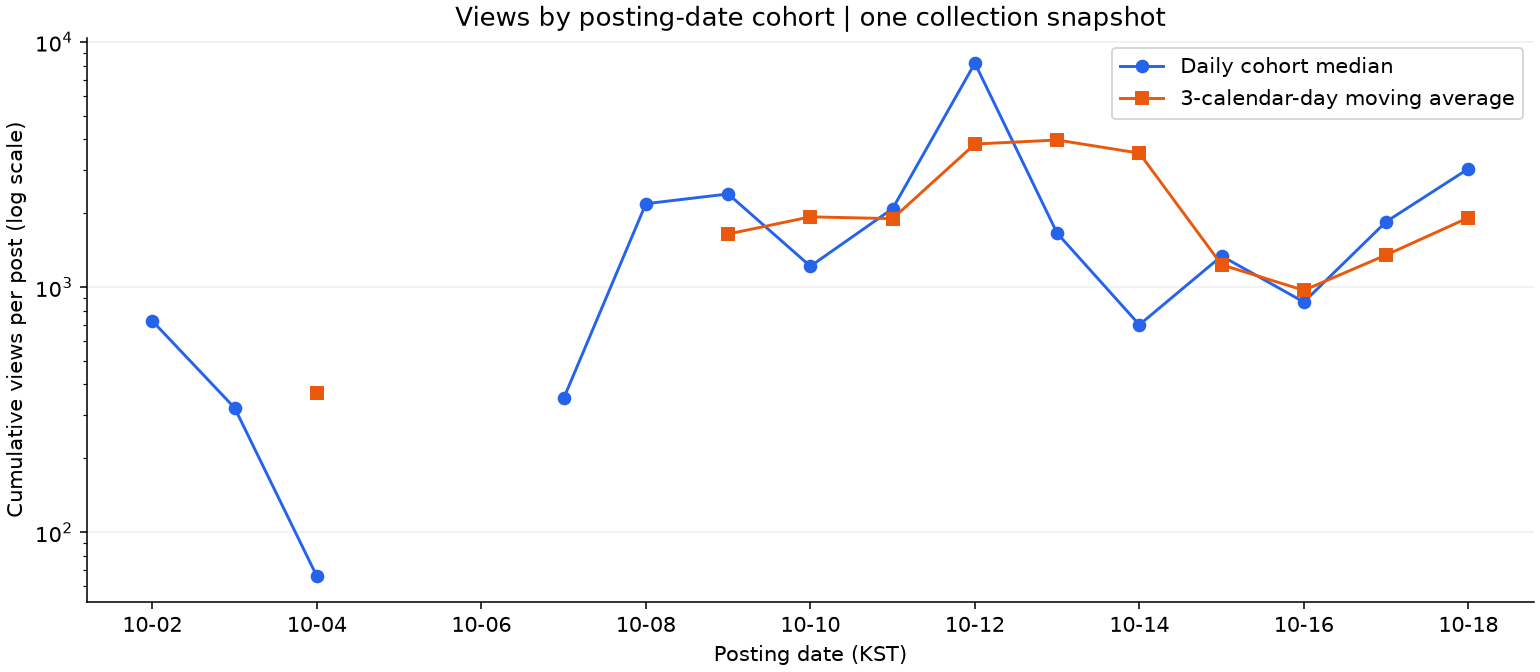
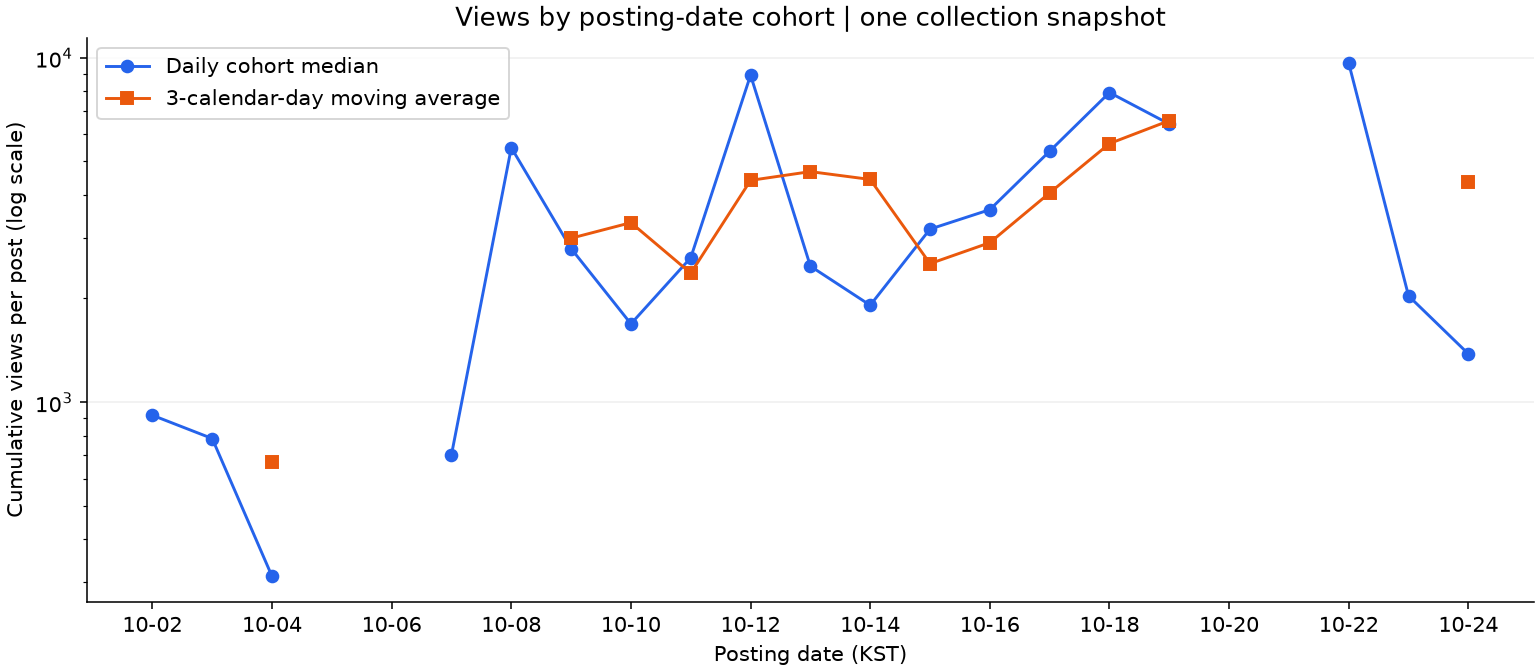
Update Threads analysis to 103 valid posts on 2026-10-24

diff --git a/collect_threads.py b/collect_threads.py
@@ -1,0 +1,108 @@
+"""One-off export of the authenticated user's Threads posts and insights.
+
+Set THREADS_ACCESS_TOKEN in the environment; credentials never enter the CSV.
+This script reads Threads only and does not enable any recurring collection.
+"""
+import argparse
+import csv
+from datetime import datetime, timezone, timedelta
+import json
+import os
+from pathlib import Path
+import time
+from urllib.error import HTTPError
+from urllib.parse import urlencode
+from urllib.request import Request, urlopen
+
+METRICS = ('views', 'likes', 'replies', 'reposts', 'quotes')
+KST = timezone(timedelta(hours=9))
+
+
+class APIError(RuntimeError):
+    def __init__(self, status, code=None):
+        self.status, self.code = status, code
+        super().__init__(f'Threads API HTTP {status}, error code {code}')
+
+
+def api_get(path, params, token):
+    request = Request('https://graph.threads.net/v1.0/' + path + '?' + urlencode(params),
+                      headers={'Authorization': 'Bearer ' + token})
+    try:
+        with urlopen(request, timeout=25) as response:
+            payload = json.load(response)
+    except HTTPError as exc:
+        try:
+            code = json.load(exc).get('error', {}).get('code')
+        except (ValueError, AttributeError):
+            code = None
+        raise APIError(exc.code, code) from None
+    if not isinstance(payload.get('data'), list):
+        raise RuntimeError('Invalid API data response')
+    return payload
+
+
+def main():
+    parser = argparse.ArgumentParser()
+    parser.add_argument('--output', type=Path, default=Path(__file__).resolve().parent / 'data/threads_insights.csv')
+    args = parser.parse_args()
+    token = os.getenv('THREADS_ACCESS_TOKEN', '').strip()
+    if not token:
+        raise RuntimeError('Set THREADS_ACCESS_TOKEN; do not put it in the source code.')
+    posts, seen, after = {}, set(), None
+    for _ in range(100):
+        params = {'fields': 'id,timestamp,text,media_type', 'limit': 100}
+        if after:
+            params['after'] = after
+        page = api_get('me/threads', params, token)
+        for post in page['data']:
+            post_id = post.get('id', '')
+            if not post_id.isascii() or not post_id.isdigit():
+                raise RuntimeError('Invalid post identifier')
+            posts[post_id] = post
+        paging = page.get('paging', {})
+        if not paging.get('next'):
+            break
+        after = paging.get('cursors', {}).get('after')
+        if not after or after in seen:
+            raise RuntimeError('Invalid pagination; output not replaced')
+        seen.add(after)
+    else:
+        raise RuntimeError('Pagination safety limit reached; output not replaced')
+    if not posts:
+        raise RuntimeError('No posts returned; output not replaced')
+    print(json.dumps({'phase': 'posts', 'unique_posts': len(posts)}), flush=True)
+    rows = []
+    for i, (post_id, post) in enumerate(posts.items(), 1):
+        values = {metric: None for metric in METRICS}
+        status = 'empty'
+        try:
+            payload = api_get(post_id + '/insights', {'metric': ','.join(METRICS)}, token)
+            for metric in payload['data']:
+                name, entries = metric.get('name'), metric.get('values', [])
+                value = entries[0].get('value') if entries else None
+                if name in values and type(value) is int and value >= 0:
+                    values[name] = value
+            status = 'success' if all(v is not None for v in values.values()) else 'empty'
+        except APIError as exc:
+            if exc.status in (401, 403, 429) or exc.code in (4, 32, 190, 613):
+                raise
+            status = 'error'
+        rows.append({'post_id': post_id, 'timestamp': post.get('timestamp'), 'text': post.get('text'),
+                     'media_type': post.get('media_type'), **values, 'status': status,
+                     'collected_at': datetime.now(KST).isoformat()})
+        if i % 20 == 0 or i == len(posts):
+            print(json.dumps({'phase': 'insights', 'processed': i, 'total': len(posts),
+                              'success': sum(r['status'] == 'success' for r in rows)}), flush=True)
+        time.sleep(.15)
+    args.output.parent.mkdir(parents=True, exist_ok=True)
+    temporary = args.output.with_suffix('.csv.tmp')
+    with temporary.open('w', encoding='utf-8-sig', newline='') as handle:
+        writer = csv.DictWriter(handle, fieldnames=list(rows[0]))
+        writer.writeheader()
+        writer.writerows(rows)
+    temporary.replace(args.output)
+    print(json.dumps({'saved_rows': len(rows), 'success': sum(r['status'] == 'success' for r in rows)}))
+
+
+if __name__ == '__main__':
+    main()

diff --git a/README.md b/README.md
@@ -1,6 +1,6 @@
 # Threads Insight M1-1
 
-현재 유효 게시물 79개로 수행한 1차 분석이다. 필수 유효 표본 100개는 추후 수집으로 충족할 예정이며 현재 버전을 이 GitHub 저장소에 정리했다. 결과는 `REPORT.md`를 참고한다.
+2026년 10월 24일 Threads API로 다시 수집한 게시물 105개 중 유효 인사이트 103개를 분석했다. **필수 유효 표본 100개 요건을 충족했다.** 기존 79개에서 신규 유효 게시물 24개를 추가했다. 결과는 [REPORT.md](REPORT.md)를 참고한다.
 
 ## 실행
 
@@ -18,26 +18,51 @@ python analysis.py
 python analysis.py --input path/to/threads_insights.csv
 ```
 
+이전 스냅샷과 비교하려면 선택적으로 다음 명령을 사용한다. 이전·현재 원본 CSV는 로컬에서 별도로 준비한다.
+
+```sh
+python analysis.py --input data/threads_insights.csv --baseline path/to/previous_snapshot.csv
+```
+
+이번 실행은 이전 2026-10-18 스냅샷과 비교했다. 결과는 `results/snapshot_comparison.json` 및 리포트의 이전 스냅샷 비교 절에 포함했다. `--baseline`을 생략하면 현재 스냅샷 분석만 수행한다.
+
 실행하면 `images/`의 PNG 4개, `results/`의 분석 CSV·품질 JSON, `REPORT.md`를 갱신한다. 원본은 덮어쓰지 않는다. 날짜 누락은 0으로 채우지 않으며 결측 지표를 가진 게시물은 성과 분석에서 제외한다. 고유 ID가 중복되면 임의로 삭제하지 않고 실행을 중단한다.
 
 ## 데이터 출처와 수집 방법 기록
 
 - 입력 출처: 분석자 본인의 Threads 계정.
 - 수집 방법: Threads API로 본인 계정의 게시물과 인사이트를 수집해 CSV로 저장.
-- 수집 대상 범위: 계정 생성 시점부터 2026년 10월 n일까지. n은 다음 데이터 갱신 시 확정한다. 이는 사용자가 설명한 수집 대상 범위이며, 계정 생성일과 전체 수집 완전성을 CSV만으로 확정한 것은 아니다.
-- 현재 게시 범위: 2026-10-02~2026-10-18, KST.
-- 현재 수집 일시: 2026-10-18 12:46~12:47, KST.
+- 수집 대상 범위: 계정 생성 이후 API가 반환하는 본인 게시물 전체를 2026년 10월 24일까지 조회. 삭제·비공개 게시물까지 포함한 계정 전체 이력의 완전성을 보장하지는 않는다.
+- 현재 게시 범위: 2026-10-02 17:02:51~2026-10-24 13:11:50, KST.
+- 현재 수집 일시: 2026-10-24 14:02:25~14:03:49, KST.
 - 필수 컬럼: `post_id,timestamp,text,media_type,views,likes,replies,reposts,quotes,status,collected_at`.
 - 인코딩: UTF-8. 본문 줄바꿈은 CSV 따옴표 규칙에 따라 보존한다.
 - `post_id`는 문자열, 시각은 시간대가 있는 ISO 형식, 성과 지표는 0 이상의 정수다.
-- 최종 갱신 시 n을 실제 수집 종료일로 바꾸고 데이터 건수·기간을 함께 갱신한다. API 버전·권한·페이지네이션 등 세부 구현은 제공받지 않아 기재하지 않았다.
+- 수집 구현: `collect_threads.py`에서 Threads Graph API v1.0의 `GET /me/threads`를 최대 100개씩 조회하고 `paging.cursors.after`로 마지막 페이지까지 순회한다. 고유 게시물 ID별 `GET /{post_id}/insights`에서 `views,likes,replies,reposts,quotes`를 조회한다. 실제 사용한 접근 토큰의 권한 구성은 공개하지 않는다.
 - 접근 토큰 등 인증 정보는 저장소에 포함하지 않는다.
 - 공개 범위: 게시물 원문 CSV와 행 단위 파생 데이터는 GitHub 공개 대상에서 제외한다. 과제의 '데이터 또는 수집 방법 문서' 조건에 따라 수집 방법을 공개하고 코드·집계 결과·시각화·리포트를 포함한다. 이는 원본 데이터의 재배포 라이선스를 부여한다는 의미가 아니다. 공개 데이터 없이 기본 실행을 재현하려면 같은 스키마의 로컬 CSV를 별도로 준비해야 한다.
+
+## API 일회 수집
+
+본인 계정에 접근 가능한 토큰을 환경변수 `THREADS_ACCESS_TOKEN`에 설정한 뒤 실행한다. 토큰을 소스 코드·문서·CSV에 적거나 커밋하지 않는다. 수집 코드는 Python 표준 라이브러리만 사용한다.
+
+```sh
+python collect_threads.py
+python analysis.py
+```
+
+기본 출력은 Git 제외 대상인 `data/threads_insights.csv`다. 완료 시 로컬 파일을 교체하므로 이전 스냅샷을 보존하려면 다른 출력 경로를 사용한다.
+
+```sh
+python collect_threads.py --output data/threads_insights_next.csv
+```
+
+정상 응답의 5개 성과 지표가 모두 정수로 확보되면 `success`, 일부 미제공이면 `empty`, 개별 게시물의 비인증·비할당량 오류이면 `error`로 남긴다. 인증·권한·호출 한도 오류에서는 중단하며 기존 CSV를 교체하지 않는다. 반복·예약 수집이나 게시물 발행 기능은 없다.
 
 ## 표본 업데이트
 
 1. 기존 데이터와 새 데이터를 고유 `post_id`로 대조한다. 반복 수집 값은 최신 스냅샷 선택 기준을 정한 뒤 별도 보관한다.
-2. 완전한 인사이트가 있는 고유 게시물 100개 이상인지 확인한다. 현재 79개가 유지되면 최소 21개가 추가로 필요하다.
+2. 완전한 인사이트가 있는 고유 게시물 100개 이상인지 확인한다. 이번에는 103개로 충족했다. 반복 수집 횟수나 성과 지표의 개수를 곱해 표본 수를 늘려 세지 않는다.
 3. 코드를 다시 실행하고 결과와 해석을 검토한다. 날짜 범위가 충분한지, 새 게시물의 관측 시간이 짧지 않은지도 함께 확인한다.
 4. AI 사용 로그에 실제로 수행한 작업·이유·검증 내용을 추가하고 본인이 결과를 설명할 수 있는지 확인한다.
 5. GitHub 저장소에 코드·REPORT.md·이미지·requirements.txt·README·허용되는 데이터 또는 수집 방법을 포함한다.
@@ -50,9 +75,9 @@ python analysis.py --input path/to/threads_insights.csv
 - [x] 시각화 2개 이상: PNG 4개
 - [x] 그래프 근거를 포함한 인사이트 3개, 관찰과 해석 분리
 - [x] Python 코드, 실행 방법, 의존성, AI 사용 로그
-- [ ] 유효 표본 100개 이상
+- [x] 유효 표본 100개 이상: 103개
 - [x] 본인 계정·Threads API 수집 방법 및 인증 정보·원문 비공개 방침 기록
-- [ ] 최종 수집 종료일(n) 확정 및 범위·건수 갱신
-- [x] GitHub 저장소에 현재 버전 정리 (최종 표본 갱신은 추후 진행)
+- [x] 수집 종료일 확정: 2026-10-24, 전체 105개·유효 103개로 갱신
+- [x] GitHub 저장소에 코드·리포트·그래프·수집 방법 정리
 
-웹 대시보드와 시계열 분해·예측은 보너스이며 이번 1차 작업 범위에 포함하지 않았다.
+웹 대시보드와 시계열 분해·예측은 보너스이며 이번 작업 범위에 포함하지 않았다. 본인이 그래프와 인사이트를 이해하고 설명하는 학습 검증은 별도로 진행한다.
